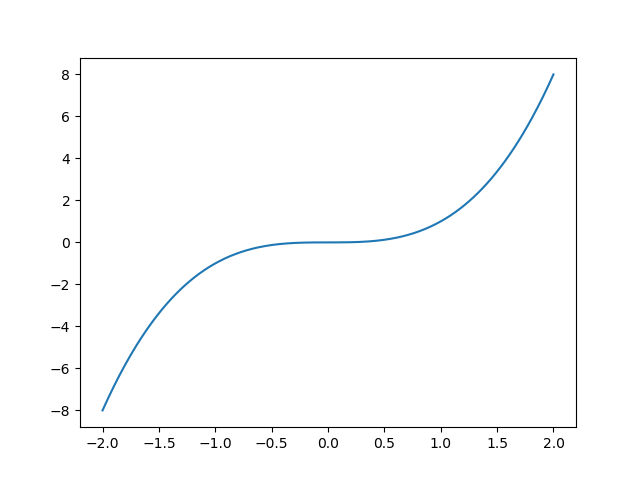
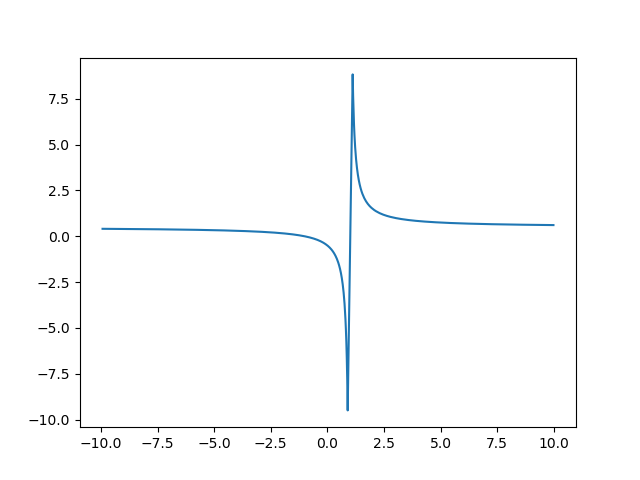
Che

diff --git a/fcalculate.py b/fcalculate.py
@@ -1,5 +1,6 @@
 import pylab
 from fInToOut import *
+import math
 
 OPERATORS = {
     '+': float.__add__,
@@ -35,40 +36,43 @@ def calculate(d):
 
 from pylab import *
 
-xmin = -2
-xmax = 2
+xmin = -10
+xmax = 10
 dx = 0.01
 xlist = mlab.frange(xmin, xmax, dx)
 xlist = list(xlist)
 
 
 def func(d):
+    global xlist
     d = d.replace(' ', '')
     d = str(d)
     h = d
-
+    x1 = []
     z = []
     for i in xlist:
         g = 0
+
         while g < len(d):
             if d[g] == 'x':
                 if i < 0:
                     d = d[:g] + '(0' + str(i) + ')' + d[g + 1:]
                 else:
                     d = d[:g] + str(i) + d[g + 1:]
-            g+=1
+            g += 1
 
         try:
             l = calculate(d)
         except:
             pass
-        if -100<=l<=100:
+        if (-10 <= l <= 10):
             z.append(l)
-        elif l<-100:
-            z.append(-100)
-        elif l>100:
-            z.append(100)
+            x1.append(i)
+        else:
+            xlist.remove(i)
+
         d = h
-    pylab.plot(xlist, z)
+    print(len(xlist), '\n', len(z))
+    pylab.plot(x1, z)
     savefig('plot')
     plt.clf()

diff --git a/bot.py b/bot.py
@@ -26,13 +26,19 @@ def roflanHmm(message):
 @bot.message_handler(regexp="Построй график")
 def roflanPomoyka(message):
     msg = bot.send_message(message.chat.id, 'Напишите функцию:', None)
-
+    @bot.message_handler(content_types=["text"])
+    def art(message):
+        func(message.text)
+        plot = open('plot.png', 'rb')
+        msg = bot.send_photo(message.chat.id, plot, None)
+        message.text = 0
+'''
 @bot.message_handler(content_types=["text"])
 def art(message):
     func(message.text)
     plot = open('plot.png', 'rb')
     msg = bot.send_photo(message.chat.id, plot, None)
     message.text = 0
-
+''' 
 if __name__ == '__main__':
     bot.polling(none_stop=True)
